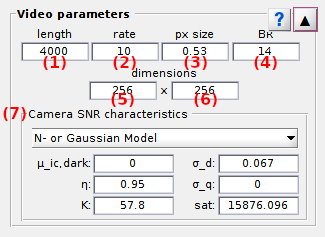
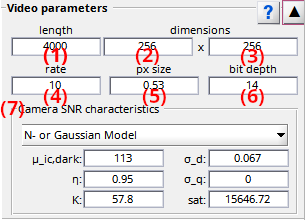
replace screenshot of panel video parameters

diff --git a/docs/simulation/components/panel-video-parameters.md b/docs/simulation/components/panel-video-parameters.md
@@ -19,7 +19,7 @@ The panel closes automatically after other panels open or after pressing
 
 Use this panel to define the settings of data acquisition like camera noise and video characteristics.
 
-<a class="plain" href="../../assets/images/gui/sim-panel-video-parameters.png"><img src="../../assets/images/gui/sim-panel-video-parameters.png" style="max-width: 325px;"/></a>
+<a class="plain" href="../../assets/images/gui/sim-panel-video-parameters.png"><img src="../../assets/images/gui/sim-panel-video-parameters.png" style="max-width: 306px;"/></a>
 
 ## Panel components
 {: .no_toc .text-delta }
